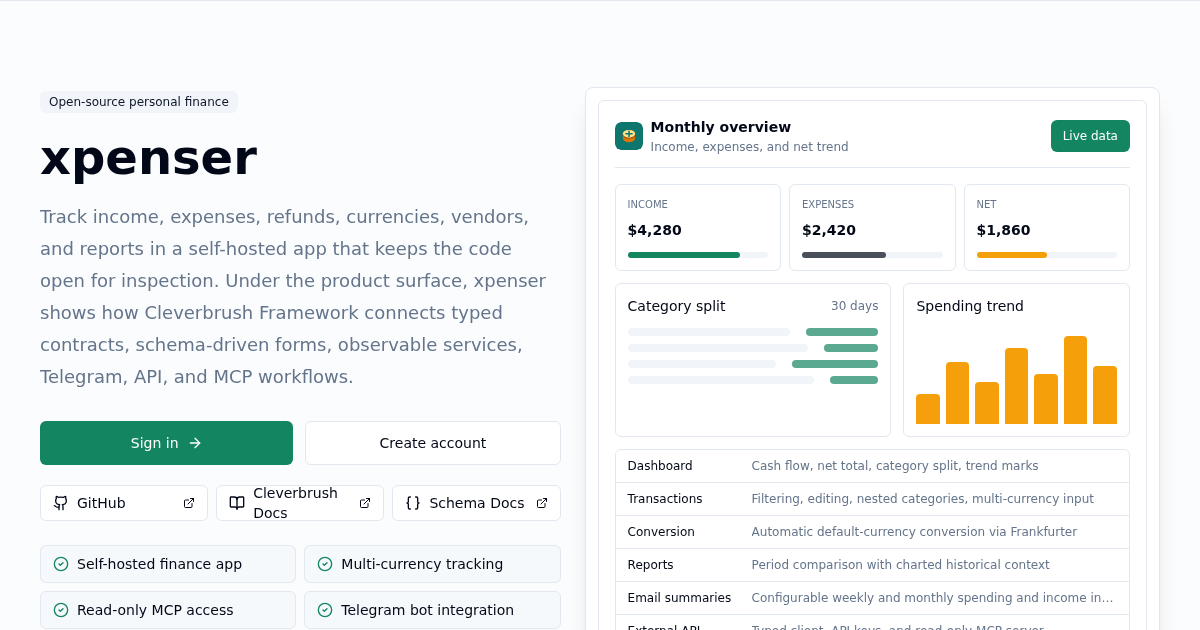
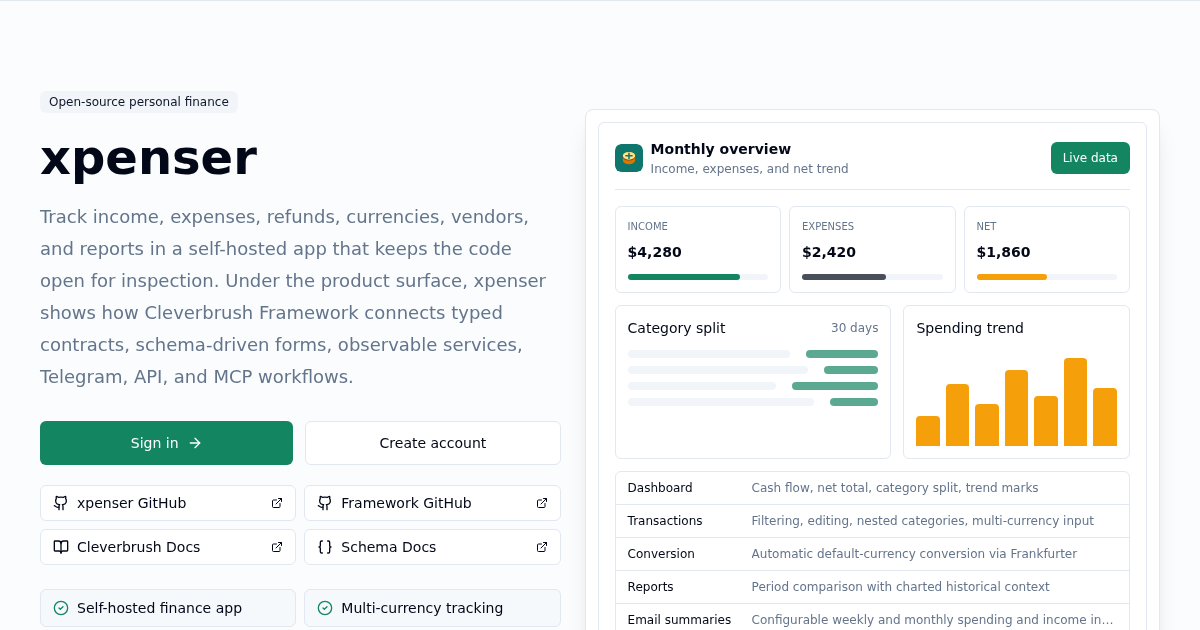
Add Cleverbrush framework source links

diff --git a/apps/web/components/landing-page.test.tsx b/apps/web/components/landing-page.test.tsx
@@ -47,12 +47,25 @@ describe('LandingPage', () => {
             )
         ).toBe(true);
 
-        const githubLinks = screen.getAllByRole('link', { name: /github/i });
+        const xpenserGithubLinks = screen.getAllByRole('link', {
+            name: /xpenser github/i
+        });
         expect(
-            githubLinks.every(
+            xpenserGithubLinks.every(
                 link =>
                     link.getAttribute('href') ===
                     'https://github.com/cleverbrush/xpenser'
+            )
+        ).toBe(true);
+
+        const frameworkGithubLinks = screen.getAllByRole('link', {
+            name: /framework github/i
+        });
+        expect(
+            frameworkGithubLinks.every(
+                link =>
+                    link.getAttribute('href') ===
+                    'https://github.com/cleverbrush/framework'
             )
         ).toBe(true);
 

diff --git a/apps/web/components/landing-page.tsx b/apps/web/components/landing-page.tsx
@@ -134,7 +134,12 @@ const resourceLinks = [
     {
         href: 'https://github.com/cleverbrush/xpenser',
         icon: GithubIcon,
-        label: 'GitHub'
+        label: 'xpenser GitHub'
+    },
+    {
+        href: 'https://github.com/cleverbrush/framework',
+        icon: GithubIcon,
+        label: 'Framework GitHub'
     },
     {
         href: 'https://docs.cleverbrush.com',
@@ -291,7 +296,7 @@ function ProductPreview() {
 
 function ResourceButtons() {
     return (
-        <div className="grid gap-2 sm:grid-cols-3">
+        <div className="grid gap-2 sm:grid-cols-2">
             {resourceLinks.map(({ href, icon: IconComponent, label }) => (
                 <a
                     className={heroResourceLinkClassName}

diff --git a/docs/cleverbrush-reference.md b/docs/cleverbrush-reference.md
@@ -4,6 +4,8 @@ xpenser is both a usable personal finance app and a reference implementation for
 projects based on CleverBrush Framework. This document points to the patterns
 worth copying and the checks that keep those patterns from drifting.
 
+Framework source: [cleverbrush/framework](https://github.com/cleverbrush/framework).
+
 ## Learning Path
 
 1. Start with `packages/contracts/src/api.ts` and

diff --git a/README.md b/README.md
@@ -44,6 +44,7 @@ Start with [Cleverbrush Reference Notes](./docs/cleverbrush-reference.md) if
 you are here to learn the framework patterns behind the app. For upstream
 framework docs, use:
 
+- [Cleverbrush Framework source](https://github.com/cleverbrush/framework)
 - [Cleverbrush Framework docs](https://docs.cleverbrush.com)
 - [Cleverbrush Schema docs](https://schema.cleverbrush.com)
 
